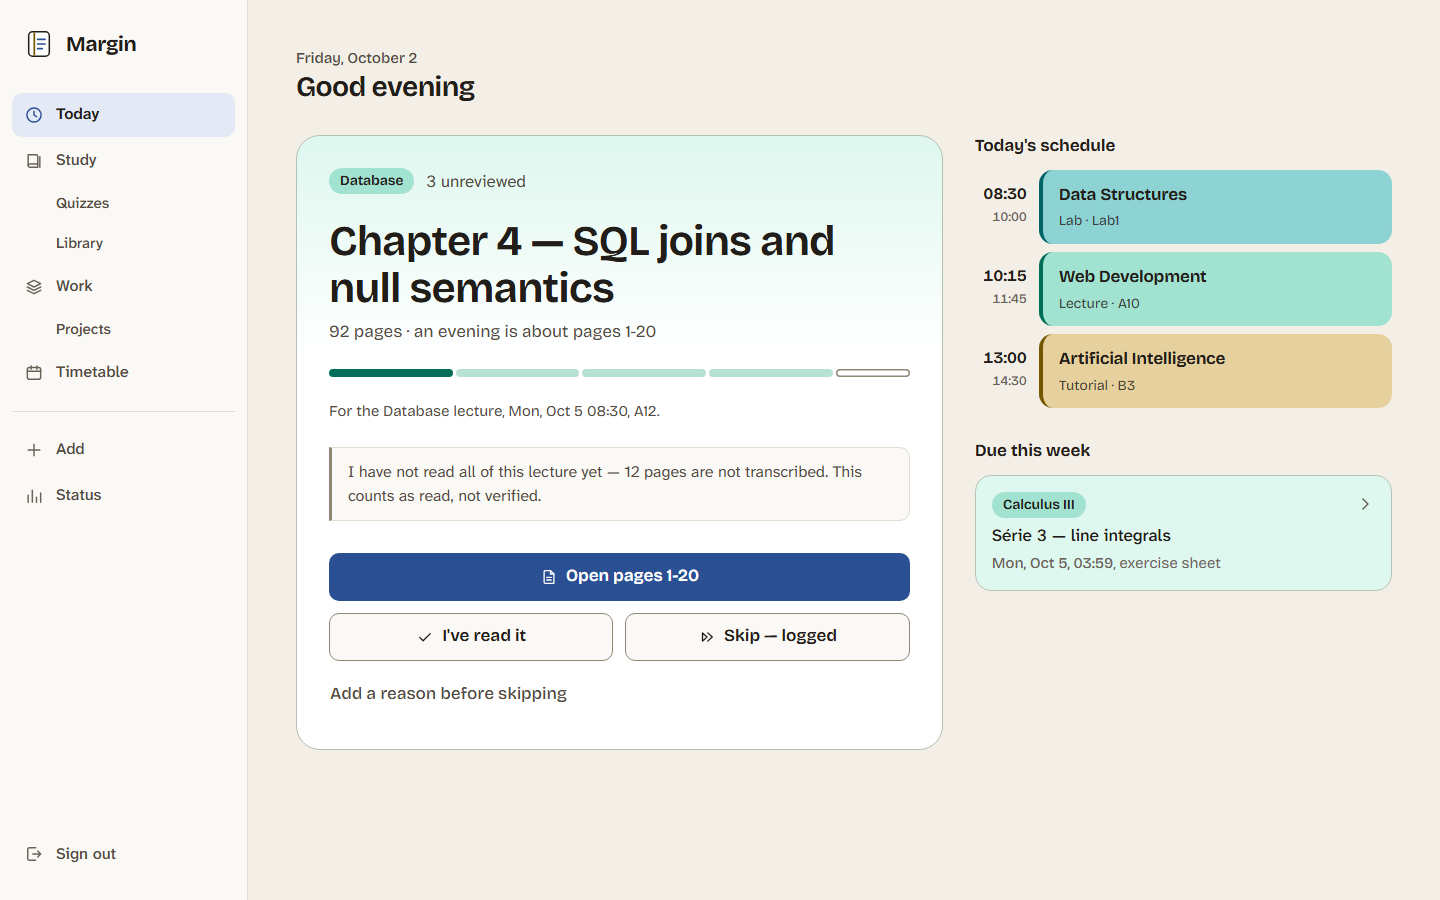
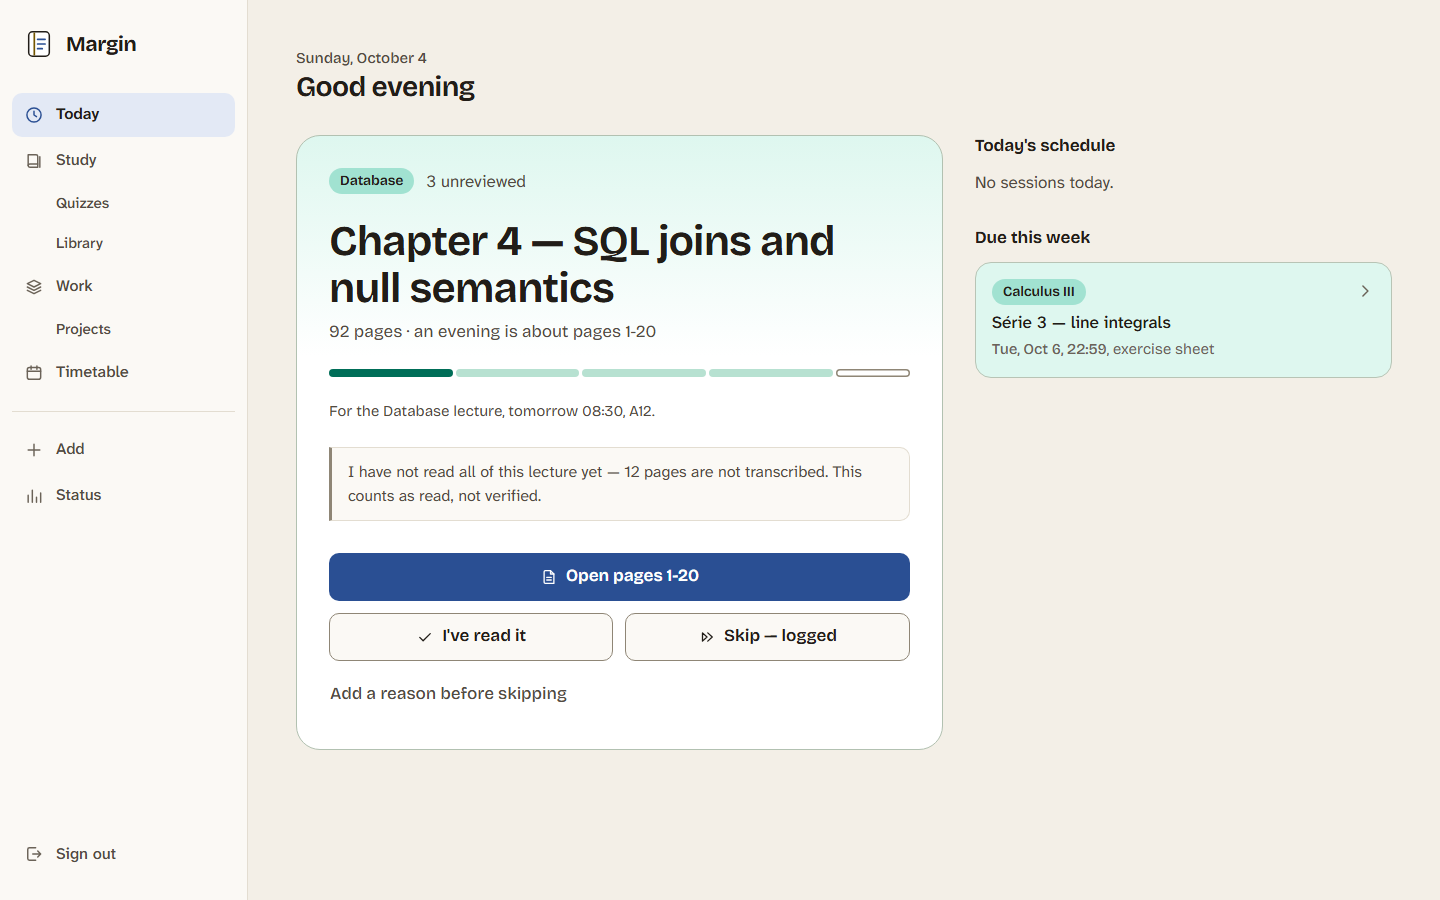
23:00 screenshot: freeze the clock, never move the zone
The harness set the page's time zone to one where it was 23:00, so every
due time rendered in that zone. It now freezes the clock instead -- the
auth test's rule -- by installing a Date offset to 23:00 Tunis on the
Sunday before the lecture into every frame, and reads the time back from
the app's own frame as evidence. The zone is untouched.

diff --git a/tools/cdp.py b/tools/cdp.py
@@ -1,15 +1,20 @@
 """Just enough of the Chrome DevTools Protocol to take one screenshot at a set time.
 
     from cdp import screenshot_at
-    screenshot_at(chrome, url, (width, height), out_png,
-                  epoch=..., timezone="Africa/Tunis")
+    screenshot_at(chrome, url, (width, height), out_png, at_ms=...)
 
 Why it exists: DESIGN.md section 4 says the 23:00 state must look exactly like
 every other state, and the redesign brief asks for a screenshot of it. Headless
-Chrome's command line cannot set the clock, and on Windows it ignores `TZ`, so a
-"23:00" screenshot taken at 16:00 would be a claim rather than a picture. Over
-DevTools the page's clock and zone can be set: `Emulation.setTimezoneOverride`
-and `Emulation.setVirtualTimePolicy` with an `initialVirtualTime`.
+Chrome's command line cannot set the clock, so a "23:00" screenshot taken at
+16:00 would be a claim rather than a picture.
+
+The clock is FROZEN, the same rule as the auth test: the page's Date starts at
+the instant asked for and runs on from there, and the time zone is never
+touched. Moving the zone instead was tried first and was wrong -- every due time
+on the page then rendered in that zone, so the screenshot showed times I would
+never see. Virtual time was tried before that and raced weeks ahead while the
+page idled. A script installed into every frame before its own scripts run
+replaces Date with one offset to the instant; nothing else changes.
 
 Standard library only -- a tool for this repository should not add a
 dependency -- so the WebSocket here is the minimum: one connection, text frames,
@@ -113,6 +118,27 @@ class Page:
                 return reply.get("result", {})
 
 
+# A Date whose "now" is offset to the asked-for instant and then runs normally.
+# Explicit dates (new Date(2026, 9, 5)) are untouched, so formatting a stored
+# instant still gives the real local time for it.
+_FROZEN = """
+(() => {
+  const Real = Date;
+  const shift = __AT__ - Real.now();
+  class Frozen extends Real {
+    constructor(...args) {
+      if (args.length === 0) super(Real.now() + shift);
+      else super(...args);
+    }
+    static now() {
+      return Real.now() + shift;
+    }
+  }
+  globalThis.Date = Frozen;
+})();
+"""
+
+
 def _free_port() -> int:
     with socket.socket() as probe:
         probe.bind(("127.0.0.1", 0))
@@ -125,11 +151,10 @@ def screenshot_at(
     window: tuple[int, int],
     out: Path,
     *,
-    epoch: float | None = None,
-    timezone: str | None = None,
+    at_ms: int | None = None,
     settle: float = 7.0,
 ) -> str | None:
-    """Load `url` with the page's clock at `epoch` in `timezone`, and save a PNG.
+    """Load `url` with the page's clock starting at `at_ms`, and save a PNG.
 
     Returns what the page itself said the time was, read back from it after the
     load -- so the caller can print evidence rather than trust the setting -- or
@@ -159,12 +184,13 @@ def screenshot_at(
         if target is None:
             return None
         page = Page(target)
-        if timezone:
-            page.call("Emulation.setTimezoneOverride", timezoneId=timezone)
-        if epoch is not None:
-            # "advance": the clock starts at `epoch` and moves forward on its own,
-            # skipping idle waits -- the page sees 23:00:00, then 23:00:01, ...
-            page.call("Emulation.setVirtualTimePolicy", policy="advance", initialVirtualTime=epoch)
+        if at_ms is not None:
+            # Into every frame, before the frame's own scripts: the probe and the
+            # app inside its iframe both see the frozen instant.
+            page.call(
+                "Page.addScriptToEvaluateOnNewDocument",
+                source=_FROZEN.replace("__AT__", str(int(at_ms))),
+            )
         # The window size on the command line is not the viewport over DevTools;
         # without this the page laid out at 800x600 and the bottom was black.
         page.call(
@@ -174,9 +200,15 @@ def screenshot_at(
         page.call("Page.enable")
         page.call("Page.navigate", url=url)
         time.sleep(settle)
+        # Read back from the APP's frame, not the probe around it: that is the
+        # clock the screen was drawn by.
         clock = page.call(
             "Runtime.evaluate",
-            expression="new Date().toString()",
+            expression=(
+                "(() => { const f = document.getElementById('f');"
+                " const w = f ? f.contentWindow : window;"
+                " return new w.Date().toString(); })()"
+            ),
             returnByValue=True,
         ).get("result", {}).get("value", "")
         shot = page.call("Page.captureScreenshot", format="png")

diff --git a/tools/screenshots.py b/tools/screenshots.py
@@ -70,26 +70,13 @@ SCREENS = [
 # derived, so it has to be looked at as much as dark does.
 THEMES = ("light", "dark")
 
-# The state DESIGN.md section 4 says to design first: 23:00, nothing done, a
-# lecture in the morning. Taken with the page's clock genuinely reading 23:xx --
-# its time zone set over DevTools (tools/cdp.py) to one where it is 23:00 right
-# now -- so the picture is of 23:00 and not a claim about it. Setting the clock
-# itself was tried and dropped: virtual time "advance" skips every idle moment
-# and the page's clock ran weeks ahead during the load.
+# The state DESIGN.md section 4 says to design first: 23:00 the night before an
+# 08:30 lecture, nothing done. The page's clock is FROZEN at that instant over
+# DevTools (tools/cdp.py) and the time zone is left alone, so every due time on
+# the screen is the one I would actually see. 2026-10-04T22:00:00Z is 23:00 in
+# Africa/Tunis on the Sunday before BUSY_DAY's Monday.
 LATE = ("today-2300", f"/?date={BUSY_DAY}")
-
-
-def zone_at_23() -> str:
-    """A time zone whose local hour is 23 at this moment."""
-    from datetime import datetime, timezone
-    from zoneinfo import ZoneInfo, available_timezones
-
-    now = datetime.now(timezone.utc)
-    for name in sorted(available_timezones()):
-        if "/" in name and not name.startswith(("Etc/", "SystemV/")):
-            if now.astimezone(ZoneInfo(name)).hour == 23:
-                return name
-    return "Etc/GMT"
+LATE_AT_MS = 1791151200000
 
 
 IDS: dict[str, int] = {}
@@ -302,7 +289,10 @@ def seed(root: Path) -> Path:
     # a fixed date, and the only way Today's third section can be looked at.
     from datetime import datetime, timedelta, timezone
 
-    soon = (datetime.now(timezone.utc) + timedelta(days=2)).replace(hour=21, minute=59, second=0)
+    # Two days after whichever is later, today or the frozen 23:00 evening, so
+    # both the ordinary shots and the late one have something due this week.
+    base_day = max(datetime.now(timezone.utc), datetime(2026, 10, 4, 22, tzinfo=timezone.utc))
+    soon = (base_day + timedelta(days=2)).replace(hour=21, minute=59, second=0)
     store.add_manual_task(conn, course_id="manual-calculus-iii",
                           title="Série 3 — line integrals", kind="exercise_sheet",
                           due_at=soon.strftime("%Y-%m-%dT%H:%M:%SZ"))
@@ -419,7 +409,7 @@ const q = new URLSearchParams(location.search);
 
 
 def capture_late(base: str, out: Path, name: str, path: str, theme: str) -> None:
-    """The same capture, with the page's clock reading 23:00-something."""
+    """The same capture, with the page's clock frozen at 23:00 Tunis time."""
     from cdp import screenshot_at
 
     for label, (width, height) in WIDTHS.items():
@@ -431,9 +421,7 @@ def capture_late(base: str, out: Path, name: str, path: str, theme: str) -> None
         raw = out / f".{name}-{label}-{theme}.raw.png"
         url = f"{base}/__shot.html?t={TOKEN}&theme={theme}&p={urllib.request.quote(path, safe='/?=&')}"
         try:
-            clock = screenshot_at(
-                CHROME, url, (max(width, 520), height), raw, timezone=zone_at_23(),
-            )
+            clock = screenshot_at(CHROME, url, (max(width, 520), height), raw, at_ms=LATE_AT_MS)
         finally:
             probe.unlink(missing_ok=True)
         if clock is None or not raw.is_file():
